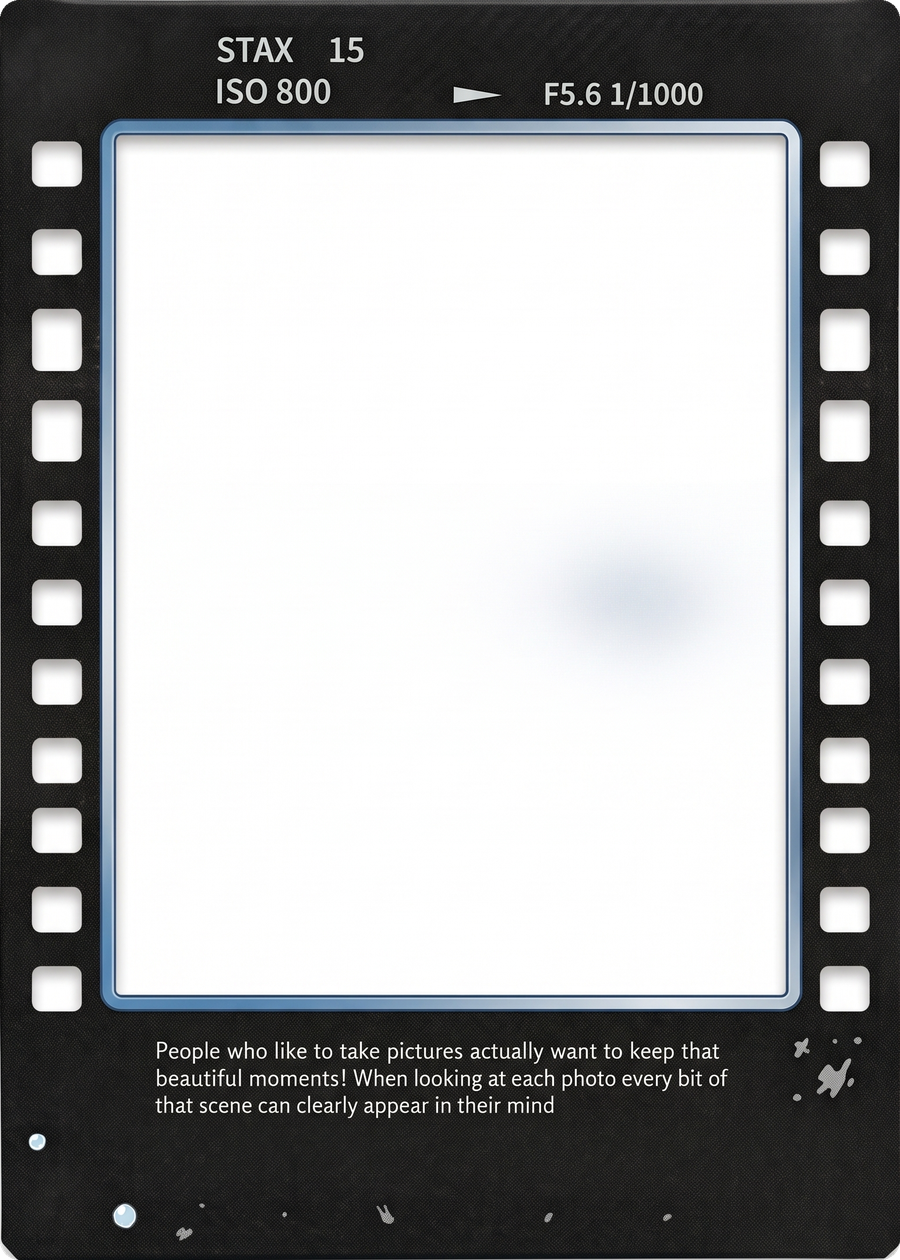
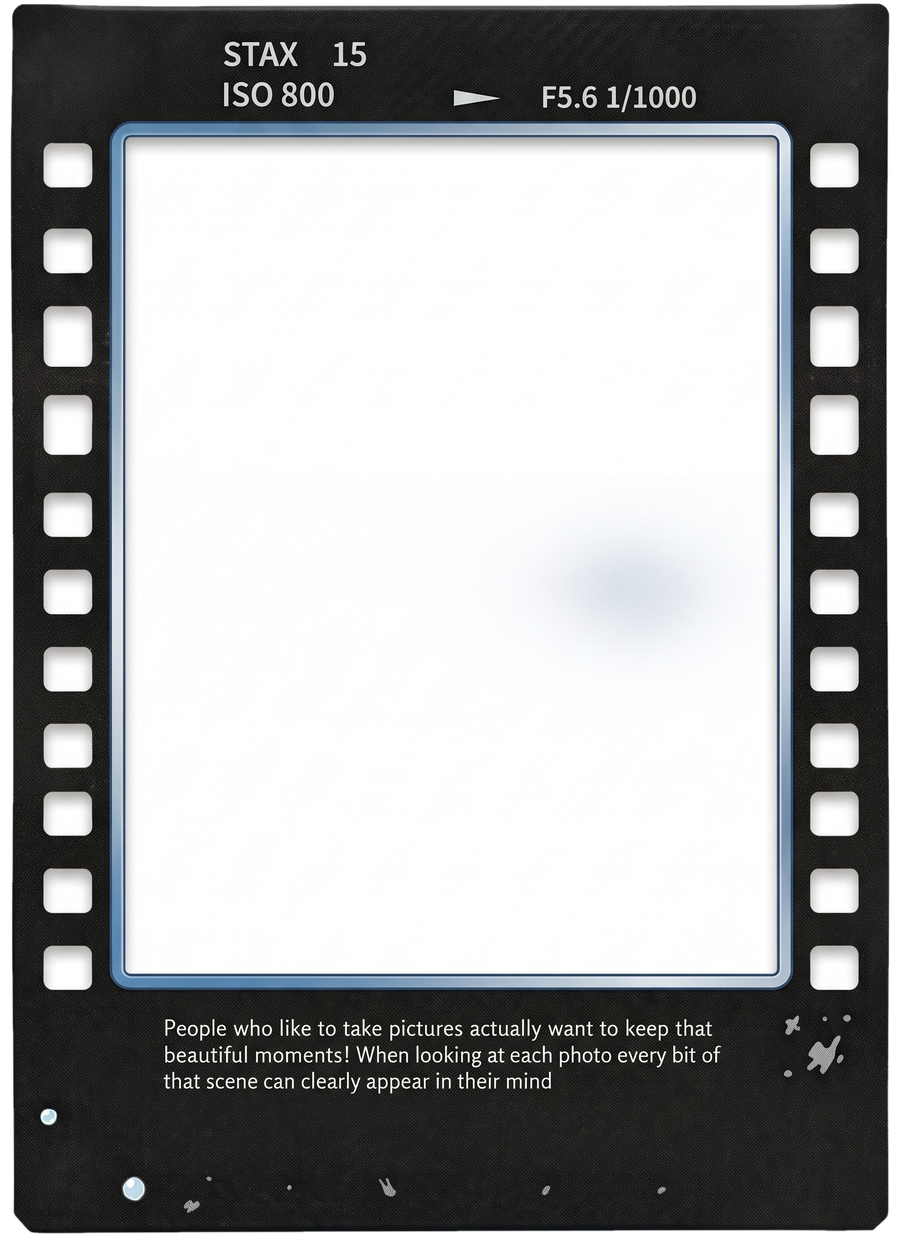
fix: frames keep the characters that stick out past the card
The crop stopped at the card's edge and cut off the bits of art that
overhang it; crop to all of the art and clear the paper round it instead.

Changed region(s): [[0.0, 0.0, 1.0, 1.0]]

diff --git a/lib/widgets/instant_print.dart b/lib/widgets/instant_print.dart
@@ -30,8 +30,8 @@ enum FilmStock {
   bool get dark => text == Colors.white;
 }
 
-const _frameAspect = 900 / 1260;
-const _frameWindow = Rect.fromLTWH(.12816, .10957, .74563, .681);
+const _frameAspect = 1588 / 2207;
+const _frameWindow = Rect.fromLTWH(.13854, .11192, .72544, .66742);
 
 /// How instax film develops at [t] (0–1): a flat pale grey-blue blank, then
 /// a faint, warm, low-contrast picture that gains colour and contrast.
